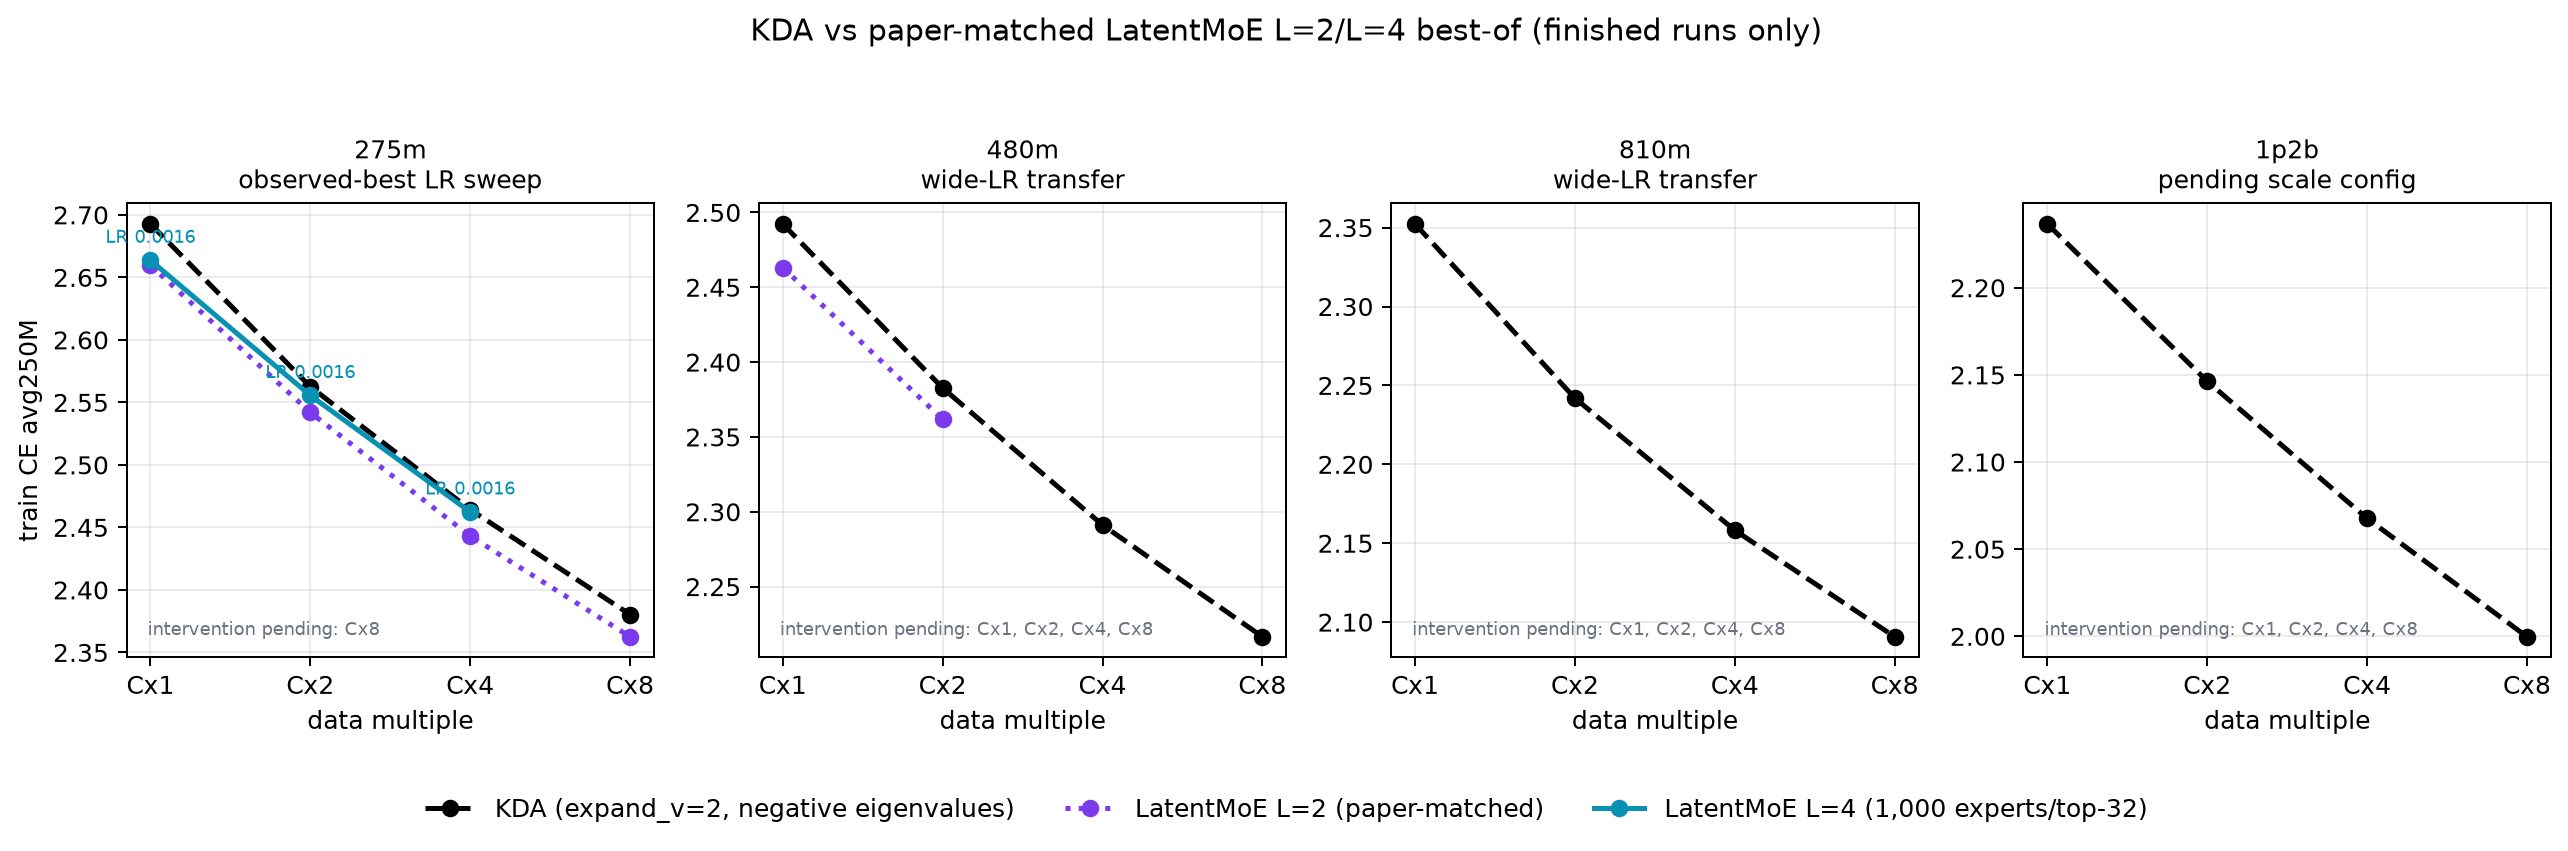
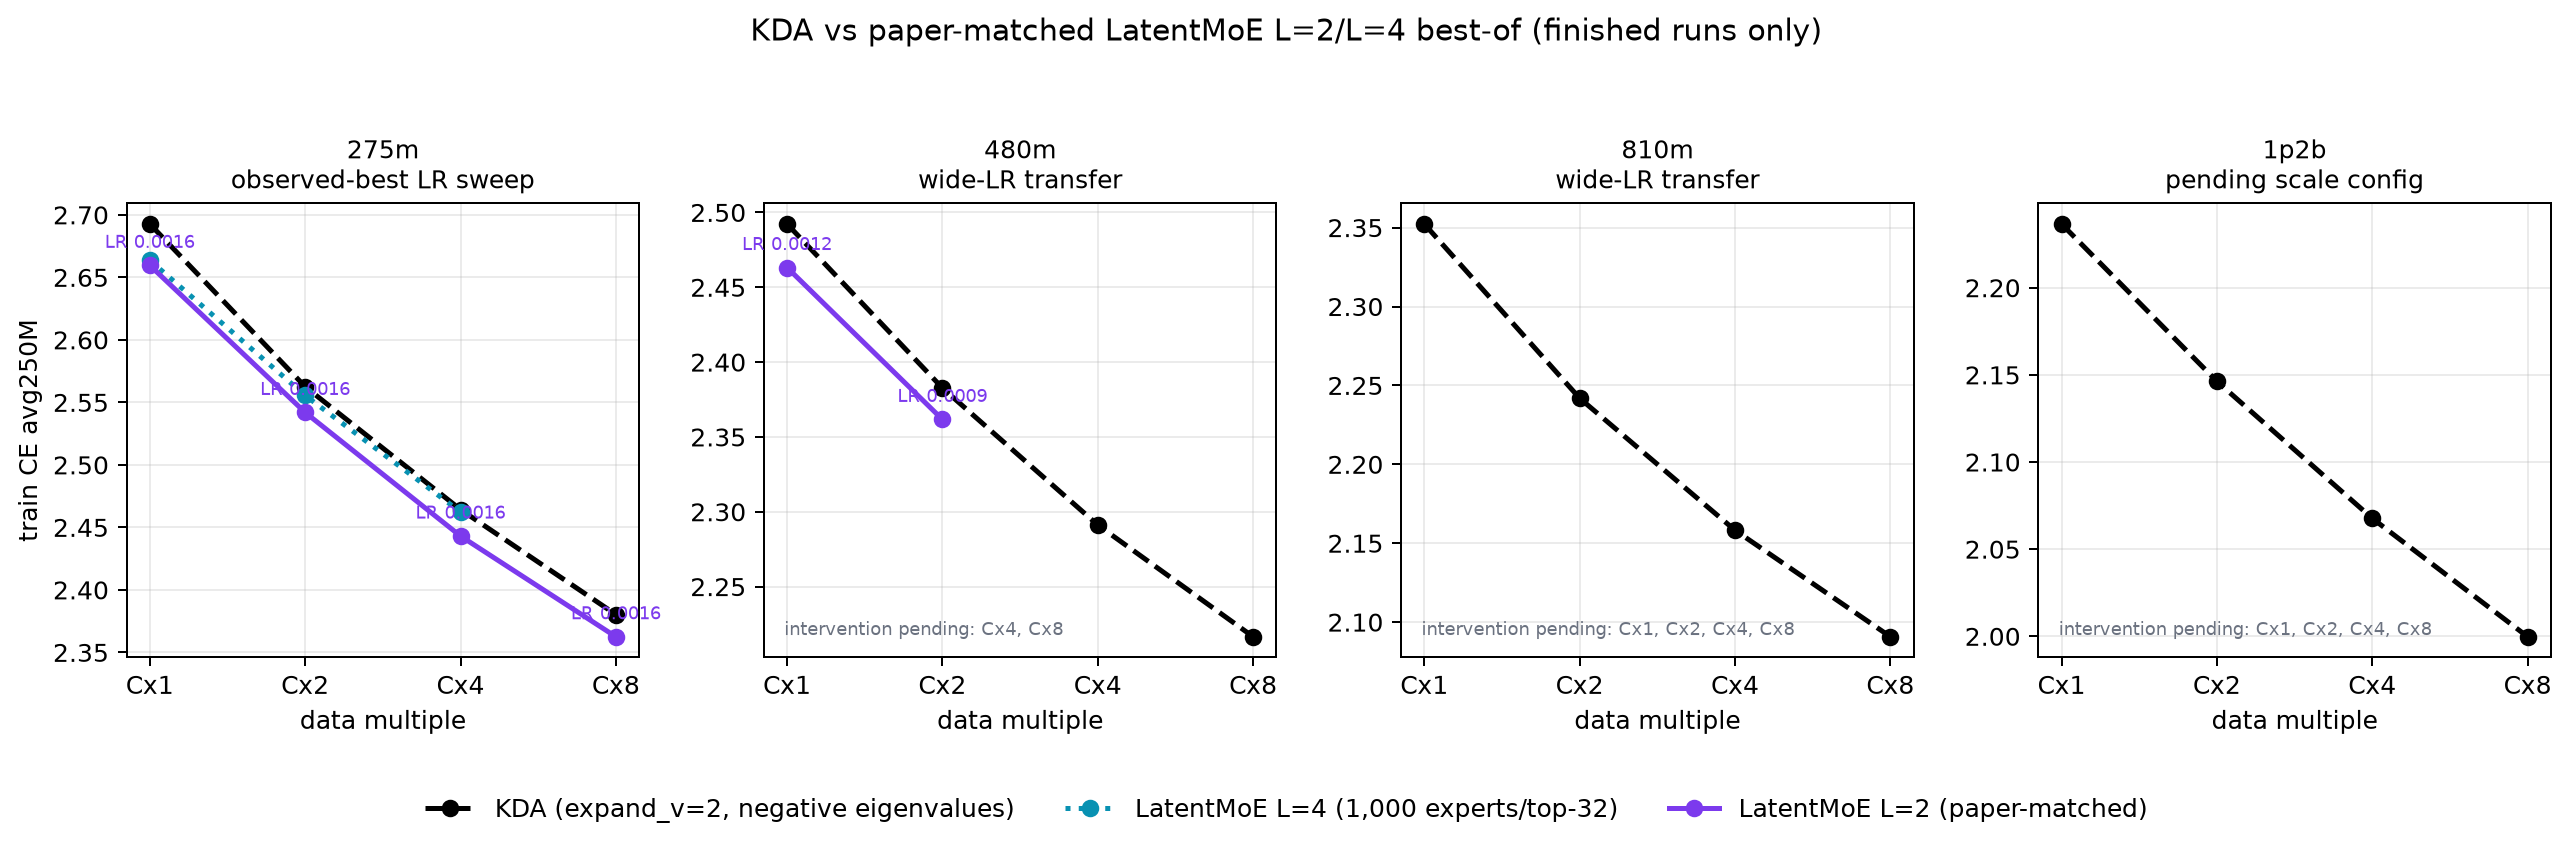
Clarify LatentMoE best-of promotion status

diff --git a/src/scripts/train/jacobm_olmoe_ladder/v2/plot_kda_latent_moe.py b/src/scripts/train/jacobm_olmoe_ladder/v2/plot_kda_latent_moe.py
@@ -228,6 +228,8 @@ def plot_best_of(
         replace(
             wave,
             title="KDA vs paper-matched LatentMoE L=2/L=4 best-of",
+            intervention=l2,
+            additional_baselines=(l4,),
         ),
         output_path,
         FINAL_WINDOW_M,

diff --git a/src/scripts/train/jacobm_olmoe_ladder/v2/results/pretraining/kda_latent_moe/results.md b/src/scripts/train/jacobm_olmoe_ladder/v2/results/pretraining/kda_latent_moe/results.md
@@ -1,6 +1,6 @@
 # KDA LatentMoE paper-matched pretraining
 
-Generated: `2026-07-30T07:51:25.206050+00:00`
+Generated: `2026-07-30T07:53:12.445520+00:00`
 
 Metric: final `250M`-token mean training CE. The best-of plot uses observed finished points only after a curve is bracketed.
 
